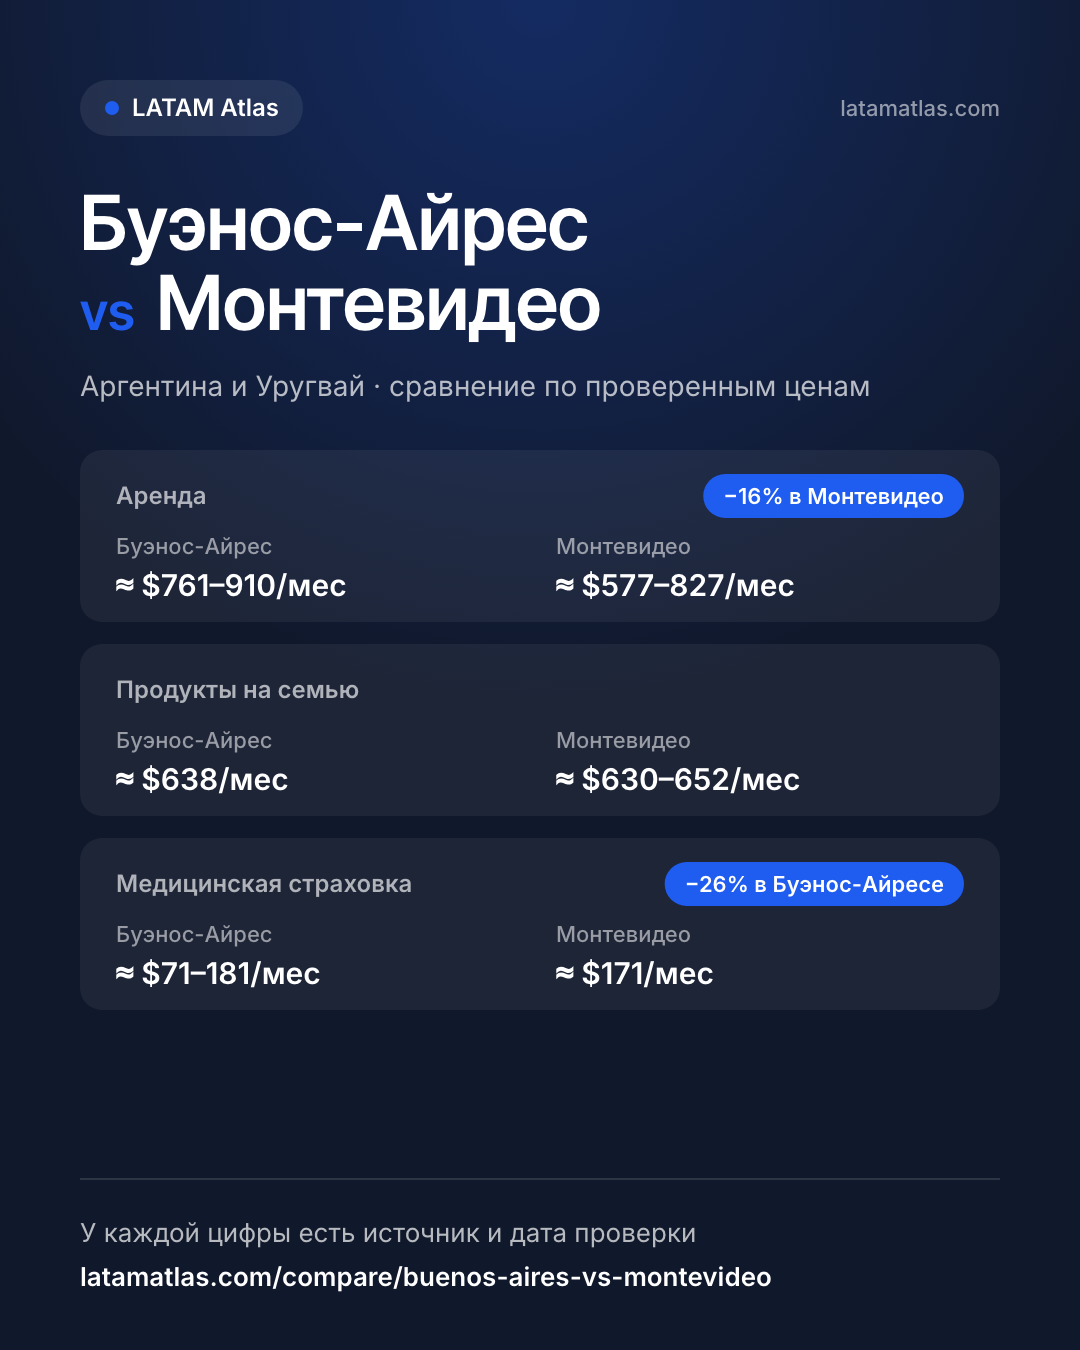
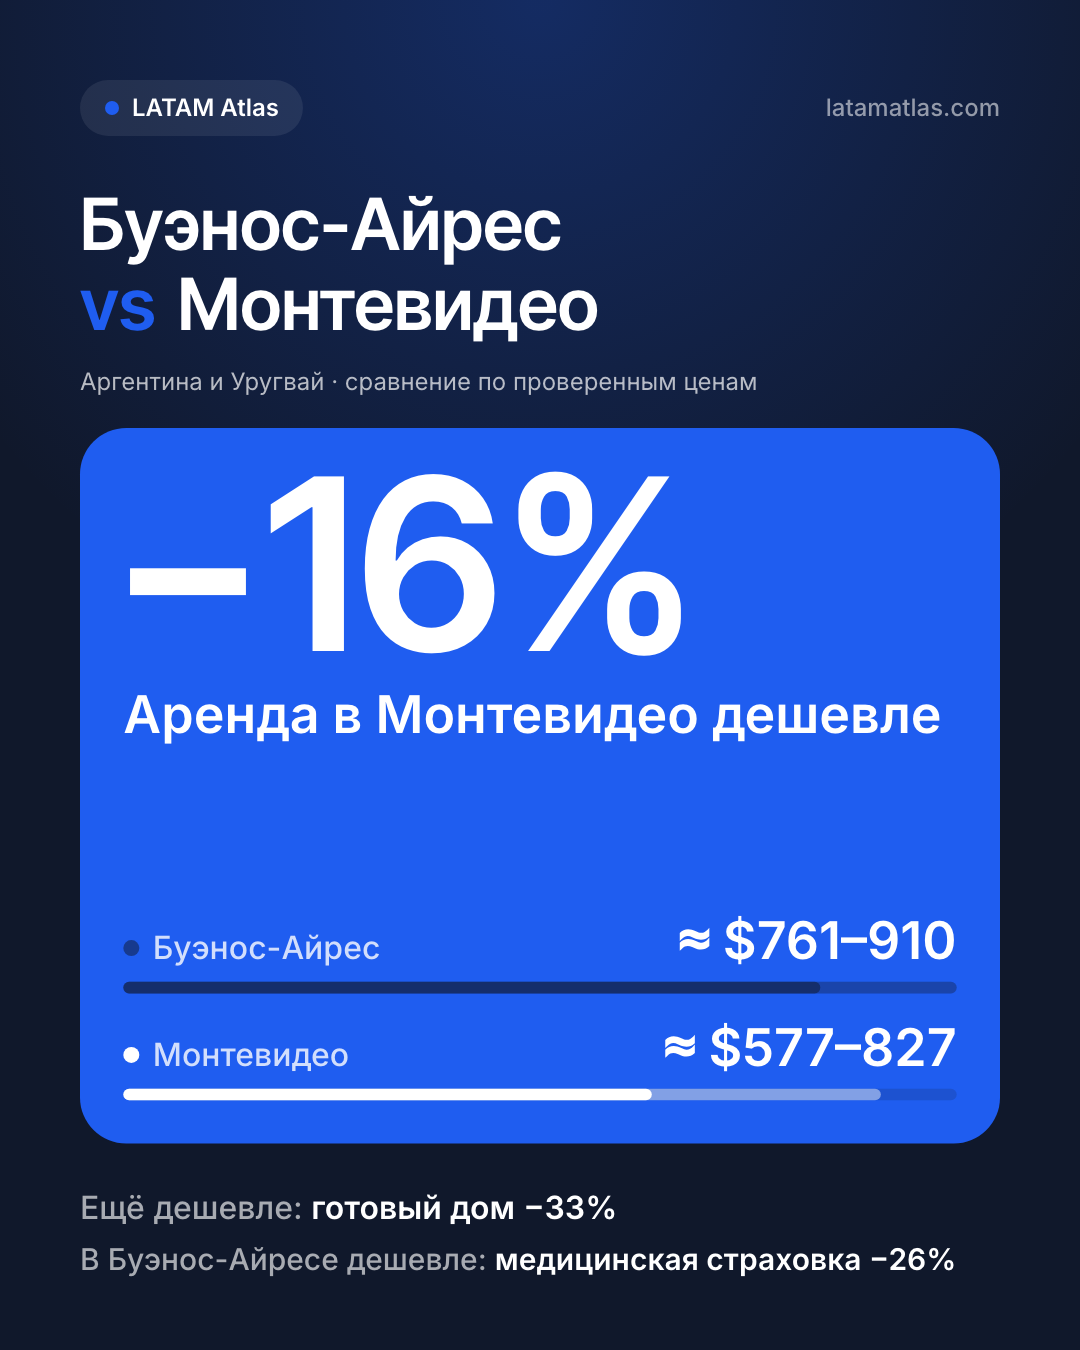
queue-atlas: 11 постов-вопросов и 4 карточки сравнений в очередь (21.10), 105 держится
Цифры всех постов сверены с данными атласа; карточки 101-104 совпадают с живым сайтом.
Не отправлено: push включает ежедневную публикацию.

diff --git a/queue-atlas-draft/README.md b/queue-atlas-draft/README.md
@@ -1,6 +1,3 @@
-Черновики постов атласа с картинкой (карточка сравнения с сайта). Робот эту папку НЕ читает.
-
-Картинка и цифры сняты с локальной сборки сайта скриптом latam-atlas/scripts/compare-card.mjs.
-Проверить черновик: `python3 publish.py --queue atlas --dry --dir queue-atlas-draft --id <папка>`.
-После «да» Артема папку переименовать и перенести в queue-atlas/ (имя задаёт место в очереди),
-закоммитить и запушить вместе с card.png: Threads забирает картинку по raw-ссылке GitHub.
+Черновики с карточками сравнений. Робот эту папку не читает.
+105-buenos-aires-vs-montevideo держится: цифры (аренда -16%, страховка -26%) считались по локальным данным,
+на живом сайте сейчас другие. Перенести в queue-atlas/ после того, как живой сайт покажет те же числа.

diff --git a/queue-atlas-hold/README.md b/queue-atlas-hold/README.md
@@ -1,4 +1,2 @@
-Посты про Боготу, Мехико и Рио: ссылки latamatlas.com/th/bogota, /th/mexico-city и
-/th/rio-de-janeiro заработают только после выкатки нового набора городов на сайт.
-Робот эту папку НЕ читает. После выкатки и проверки (curl -sIL даёт 200) перенести
-папки в queue-atlas/.
+Посты, которые ждут чего-то перед очередью. Робот эту папку НЕ читает.
+Сейчас пусто: все готовые посты перенесены в queue-atlas/ (21.10.2026).
